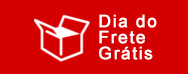
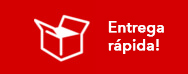
update

Changed region(s): [[0.5053, 0.1892, 0.8777, 0.8108]]

diff --git a/l6-fortunella/pt/index.html b/l6-fortunella/pt/index.html
@@ -79,7 +79,7 @@
 			o corpo fica esbelto.</p>
 
 
-			<p><b>Fortunella ajuda a queimar a gordura mais teimosa, das partes mais problemáticas do
+			<p><b>Fortunella ajuda a queimar a gordura mais teimosa, uma das partes mais problemáticas do
 			corpo.</b>
 			</p>
 		</div>
@@ -171,10 +171,7 @@
 			com o Fortunella</h2>
 
 
-			<p>As gotas emagrecedores Fortunella são uma <b>fórmula especializada baseada no sistema
-			transdérmico.</b> Isto significa que a rapidez de liberação de substâncias ativas no corpo é
-			constante. O objetivo de aplicar este sistema para as gotas Fortunella é fornecer ao
-			organismo um acesso constante a substâncias ativas durante 24 horas por dia.</p>
+			<p>As gotas de emagrecimento Fortunella é um produto totalmente natural que desperta as reservas latentes do corpo e os dirige para lutar contra libras extra 24 horas por dia.</p>
 		</div>
 
 
@@ -183,14 +180,10 @@
 				<img alt="" class="center lazy" src="images/sunea2eb2b9c0941d9a4500492df4755d47.png">
 
 				<ul>
-					<li><i class="fa fa-check-circle-o"></i> Graças ao extrato de castanha da Índia, Fortunella
-					aumenta o suprimento de sangue em todo o trato digestivo, <b>acelerando o metabolismo</b> e
-					suprimindo o apetite.</li>
+					<li><i class="fa fa-check-circle-o"></i> Graças ao extrato de folhas de espinafre Fortunella impulsiona a circulação sanguínea em todo o tracto digestivo, impulsionando o metabolismo e suprimindo o apetite.</li>
 
 
-					<li><i class="fa fa-check-circle-o"></i> A fucoidina contida nos resíduos do Fucus Vesiculosus
-					<b>suprime o apetite</b>, acelera a queima de gordura e reduz o colesterol no nível
-					celular.</li>
+					<li><i class="fa fa-check-circle-o"></i> O extracto de Fortunella suprime o apetite, acelera a queima de gordura e reduz os níveis de colesterol a nível celular.</li>
 				</ul>
 			</div>
 		</div>
@@ -201,13 +194,10 @@
 				<img alt="" class="center lazy" src="images/moon2b742ffc6efcfa54c6c9dd3b04ed4551.png">
 
 				<ul>
-					<li><i class="fa fa-star"></i> O extrato de Ginkgo biloba regula os processos nos tecidos
-					acumuladores de gordura e reduz a permeabilidade dos vasos sanguíneos, tornando-o extremamente
-					eficaz na terapia anticelulite noturna.</li>
+					<li><i class="fa fa-star"></i>O L-caroteno regula processos nos tecidos adiposos e reduz a permeabilidade vascular, o que o torna extremamente eficaz na terapia nocturna anti-celulítica.</li>
 
 
-					<li><i class="fa fa-star"></i> O óleo de laranja melhora a aparência e o estado da pele,
-					especialmente à noite, após um dia inteiro. Também atrasa os processos de envelhecimento.</li>
+					<li><i class="fa fa-star"></i> O extracto de casca de canela melhora o aspecto e o estado da pele, especialmente à noite, após um dia atarefado. Atrasa também o processo de envelhecimento.</li>
 				</ul>
 			</div>
 		</div>
@@ -362,10 +352,7 @@
 			<h2>O QUE É QUE TORNA O Fortunella <b>TÃO EFICAZ?</b></h2>
 
 
-			<p>O segredo da eficácia as gotas está nos revestimentos especiais que dosam substâncias
-			ativas. Esta solução reservada no instituto de patentes permite a aplicação de substâncias
-			adelgaçantes diretamente ao sangue, 24 horas por dia. Graças a isso, chegam rapidamente às
-			partes responsáveis pela queima do tecido adiposo e regulação do apetite.</p>
+			<p>As gotas de Fortunella contêm altas doses de extractos naturais e substâncias biologicamente activas, fabricadas utilizando tecnologias modernas. Graças à composição equilibrada e eficácia dos ingredientes activos, Fortunella funciona em várias direcções ao mesmo tempo: estimula a queima de gordura e ajuda a reduzir o apetite.</p>
 
 
 			<div class="container inner">
@@ -402,8 +389,7 @@
 				<h3>Simples</h3>
 
 
-				<p>Sem dietas de fome e exercícios. A única coisa que precisas lembrar é remover o gotas após
-				<b>12 horas</b>, e colocar um novo no dia seguinte em um lugar diferente.</p>
+				<p>Sem dietas de fome ou exercício físico. A única coisa a lembrar é de tomar as gotas duas vezes por dia.</p>
 			</li>
 
 
@@ -411,8 +397,7 @@
 				<h3>Rápido</h3>
 
 
-				<p>As substâncias ativas começam a ser liberadas&nbsp;imediatamente&nbsp;após a aplicação do
-				gotas. Pode perder até 7 kg em 4 semanas!</p>
+				<p>Os ingredientes activos fazem efeito assim que se tomam as gotas. Pode perder até 10 kg em 4 semanas!</p>
 			</li>
 
 
@@ -472,13 +457,11 @@
 			</figure>
 
 
-			<p><b>Envio e entrega</b>
+			<p><b>Entrega rápida!</b>
 			</p>
 
 
-			<p class="gw">Ao fazer um pedido antes das <span class="currentHour">15</span>:00, não pagas o
-			custo de envio. O pacote será entregue a si gratuitamente, através de uma empresa de
-			correio.</p>
+			<p class="gw">Entrega por mensageiro dentro de 2-5 dias.</p>
 
 
 			<figure class="time">
@@ -509,7 +492,7 @@
 
 
 			<p>Preencha o formulário de encomenda na parte inferior da página.<br>
-			Pode iniciar o tratamento já no segundo dia após fazer o pedido.</p>
+				Pode começar a perder peso no terceiro dia após a encomenda.</p>
 			<img alt="" class="lazy wizka-img" src="images/prod.png"><br>
 
 

diff --git a/p326-fortunella/pt/index.html b/p326-fortunella/pt/index.html
@@ -132,7 +132,7 @@
 				<p class="normal-text">O meu marido estava-me sempre a dizer, que tudo ía correr bem, de
 				qualquer maneira. Todos os dias ele me reafirmava do seu amor, embora eu pudesse ver a
 				relutância no seu olhar. Eu via quando, olhava para o meu grande rabo e dois presuntos em vez
-				de pernas. Mas aqui também tudo se desmoronou, porque um dia ... ele deixou-me, eu sabia
+				de pernas. Mas aqui também tudo se desmoronou, porque um dia... ele deixou-me, eu sabia
 				perfeitamente que a causa era eu e o meu excesso de peso. Eu via-o a afastar-se de mim aos
 				poucos, durante um longo tempo. Eu senti-me muito infeliz.</p>
 
@@ -231,7 +231,7 @@
 				</div>
 
 
-				<p class="normal-text">Enfim, nessas 8 semanas perdi ... 26 kg! O meu corpo estava
+				<p class="normal-text">Enfim, nessas 8 semanas perdi... 26 kg! O meu corpo estava
 				irreconhecível. Chega de evitar o meu próprio reflexo no espelho. Chega de vergonha à frente
 				das pessoas. Chega de esconder o meu corpo debaixo de roupas largas. Finalmente, posso apanhar
 				sol em fato de banho e sem constrangimentos, pensei eu então.</p>
@@ -627,7 +627,7 @@
 
 
 						<p class="comment-text">Não sei como poderia viver sem isto. Tantas dietas milagrosas que não
-						eram milagres, tanto dinheiro desperdiçado ... um drama</p>
+						eram milagres, tanto dinheiro desperdiçado... um drama</p>
 					</div>
 				</div>
 
